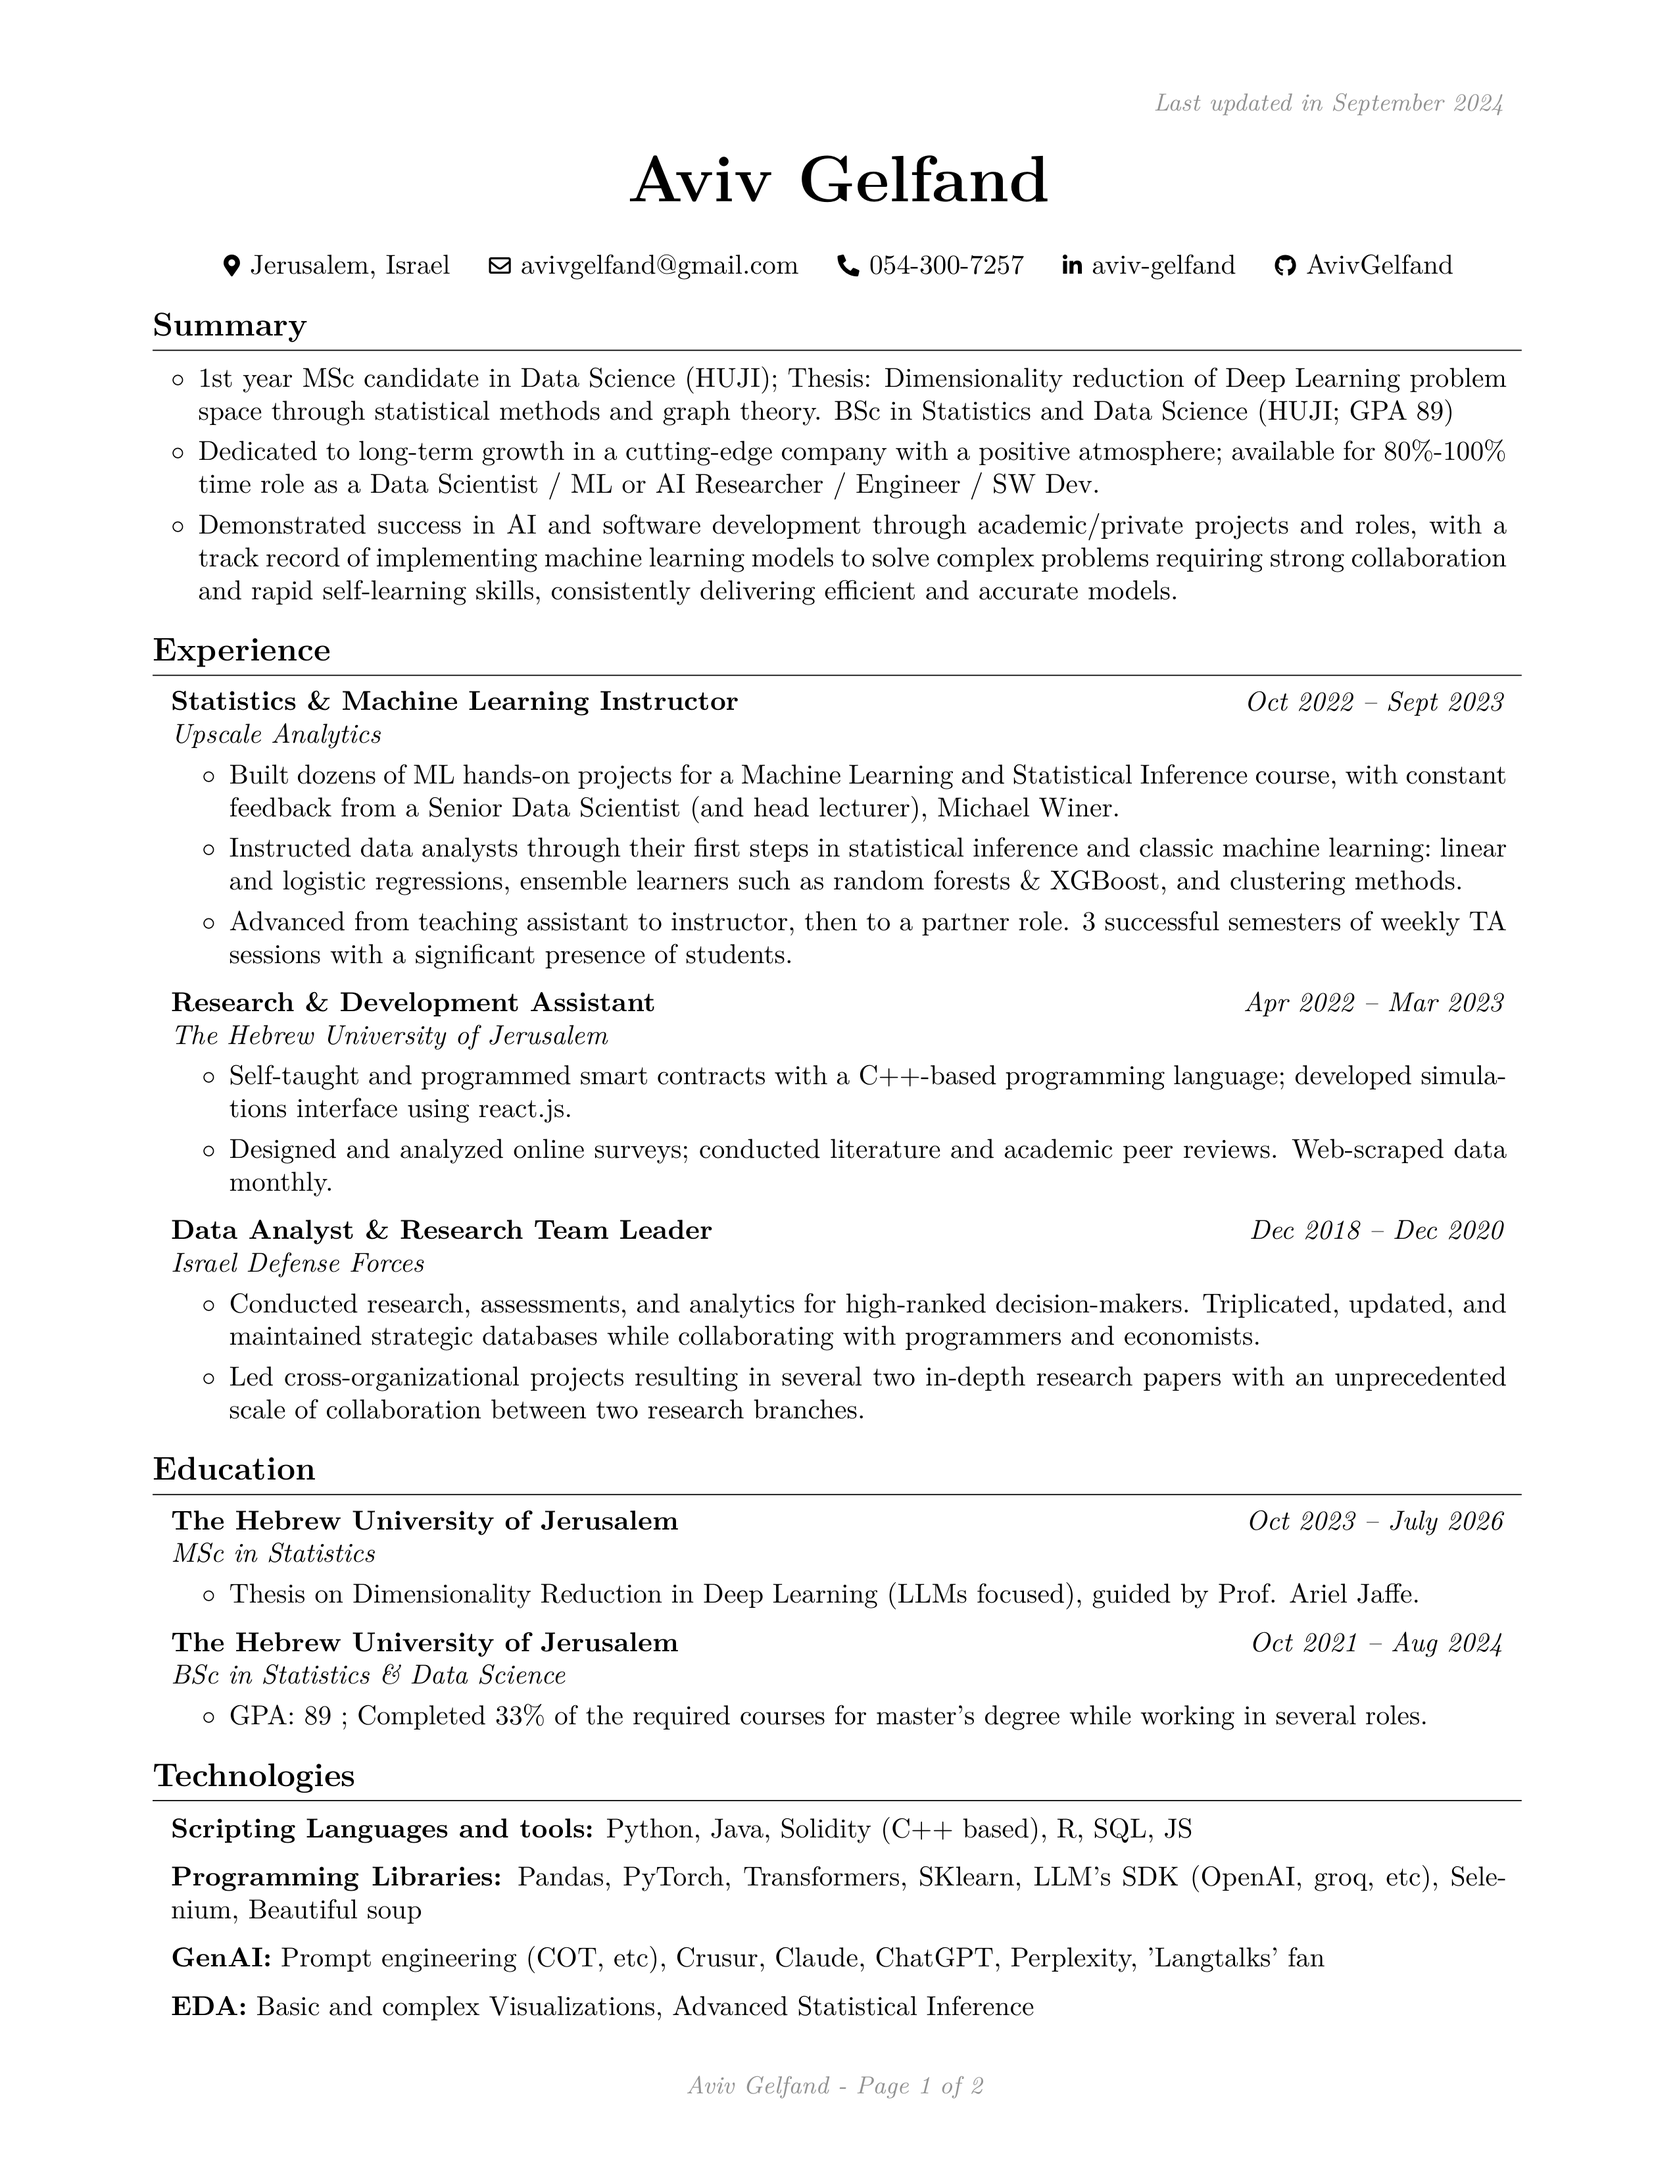
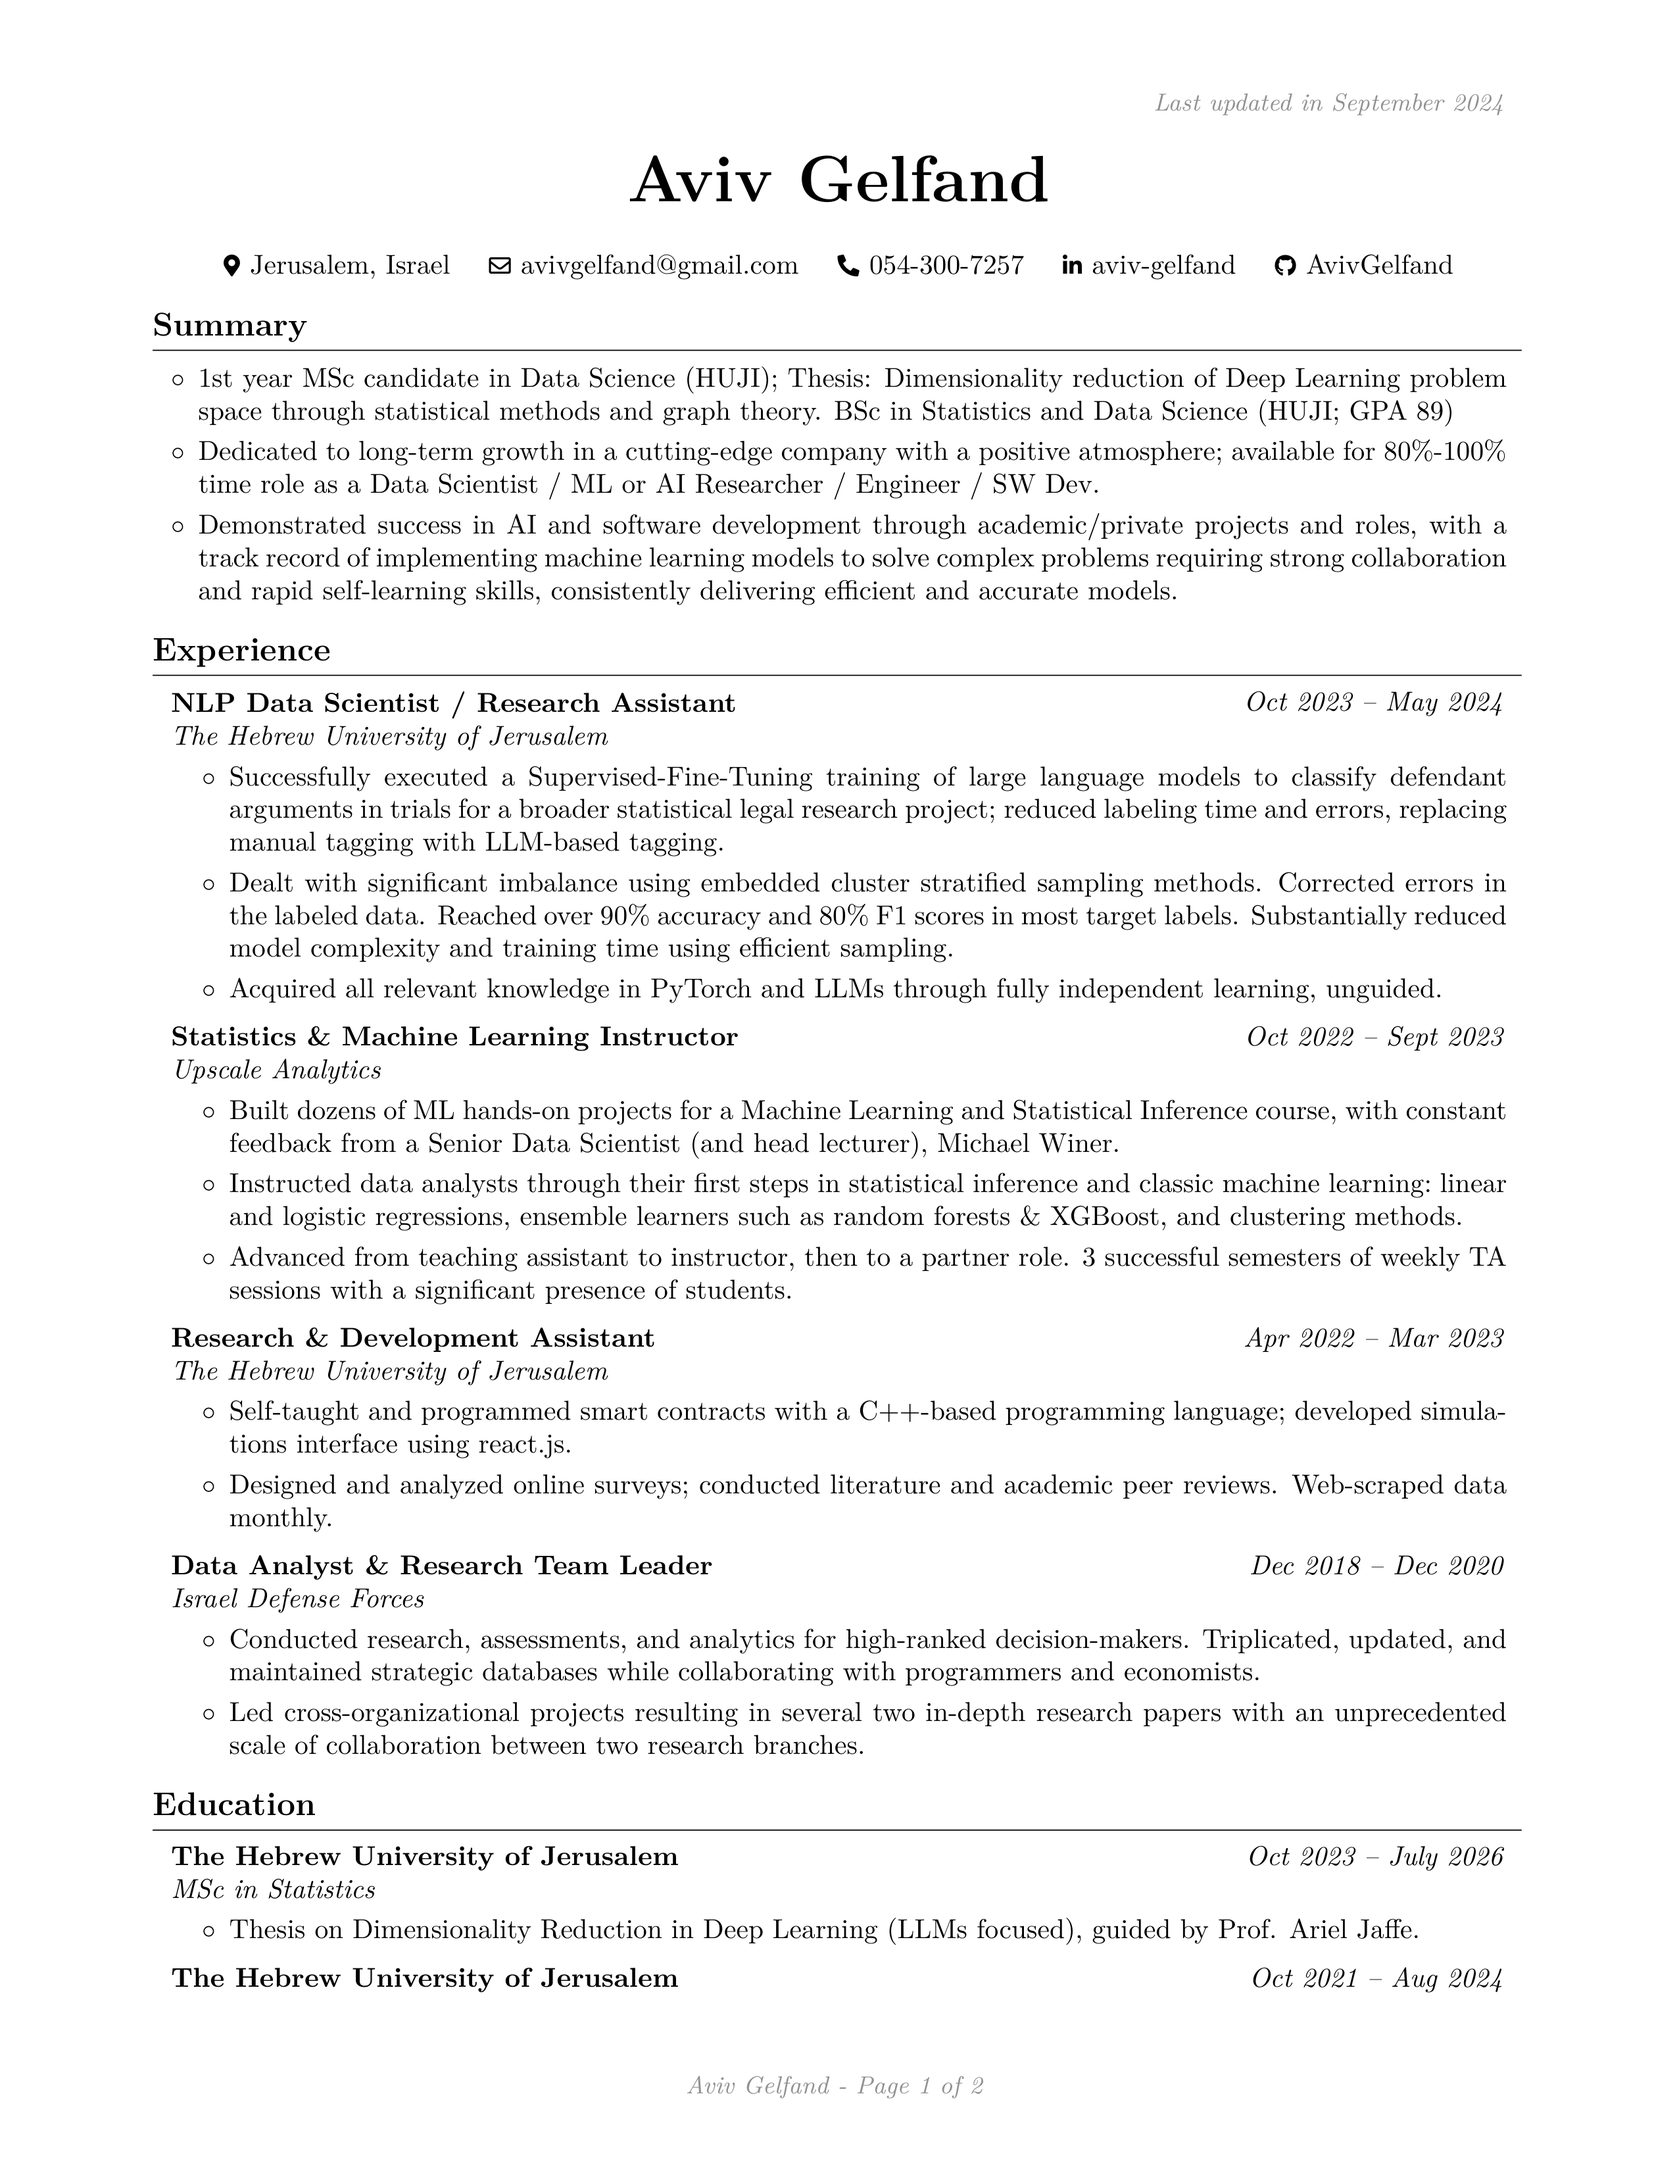
Render the latest CV

Changed region(s): [[0.0929, 0.3121, 0.8984, 0.9364], [0.8365, 0.7491, 0.8984, 0.7803], [0.8365, 0.6867, 0.8984, 0.7179]]

diff --git a/Aviv_Gelfand_CV.html b/Aviv_Gelfand_CV.html
@@ -47,6 +47,13 @@
         <li>Demonstrated success in AI and software development through academic/private projects and roles, with a track record of implementing machine learning models to solve complex problems requiring strong collaboration and rapid self-learning skills, consistently delivering efficient and accurate models.</li>
         </ul>
         <h1>Experience</h1>
+        <h2>The Hebrew University of Jerusalem, NLP Data Scientist / Research Assistant</h2>
+        <ul>
+        <li>Oct 2023 – May 2024</li>
+        <li>Successfully executed a Supervised-Fine-Tuning training of large language models to classify defendant arguments in trials for a broader statistical legal research project; reduced labeling time and errors, replacing manual tagging with LLM-based tagging.</li>
+        <li>Dealt with significant imbalance using embedded cluster stratified sampling methods. Corrected errors in the labeled data. Reached over 90% accuracy and 80% F1 scores in most target labels. Substantially reduced model complexity and training time using efficient sampling.</li>
+        <li>Acquired all relevant knowledge in PyTorch and LLMs through fully independent learning, unguided.</li>
+        </ul>
         <h2>Upscale Analytics, Statistics &amp; Machine Learning Instructor</h2>
         <ul>
         <li>Oct 2022 – Sept 2023</li>

diff --git a/Aviv_Gelfand_CV.tex b/Aviv_Gelfand_CV.tex
@@ -206,6 +206,27 @@
         \begin{twocolentry}{
             
             
+        \textit{Oct 2023 – May 2024}}
+            \textbf{NLP Data Scientist / Research Assistant}
+            
+            \textit{The Hebrew University of Jerusalem}
+        \end{twocolentry}
+
+        \vspace{0.10 cm}
+        \begin{onecolentry}
+            \begin{highlights}
+                \item Successfully executed a Supervised-Fine-Tuning training of large language models to classify defendant arguments in trials for a broader statistical legal research project; reduced labeling time and errors, replacing manual tagging with LLM-based tagging.
+                \item Dealt with significant imbalance using embedded cluster stratified sampling methods. Corrected errors in the labeled data. Reached over 90\% accuracy and 80\% F1 scores in most target labels. Substantially reduced model complexity and training time using efficient sampling.
+                \item Acquired all relevant knowledge in PyTorch and LLMs through fully independent learning, unguided.
+            \end{highlights}
+        \end{onecolentry}
+
+
+        \vspace{0.2 cm}
+
+        \begin{twocolentry}{
+            
+            
         \textit{Oct 2022 – Sept 2023}}
             \textbf{Statistics \& Machine Learning Instructor}
             

diff --git a/README.md b/README.md
@@ -16,6 +16,13 @@
 - Demonstrated success in AI and software development through academic/private projects and roles, with a track record of implementing machine learning models to solve complex problems requiring strong collaboration and rapid self-learning skills, consistently delivering efficient and accurate models.
 # Experience
 
+## The Hebrew University of Jerusalem, NLP Data Scientist / Research Assistant
+
+- Oct 2023 – May 2024
+- Successfully executed a Supervised-Fine-Tuning training of large language models to classify defendant arguments in trials for a broader statistical legal research project; reduced labeling time and errors, replacing manual tagging with LLM-based tagging.
+- Dealt with significant imbalance using embedded cluster stratified sampling methods. Corrected errors in the labeled data. Reached over 90% accuracy and 80% F1 scores in most target labels. Substantially reduced model complexity and training time using efficient sampling.
+- Acquired all relevant knowledge in PyTorch and LLMs through fully independent learning, unguided.
+
 ## Upscale Analytics, Statistics & Machine Learning Instructor
 
 - Oct 2022 – Sept 2023
